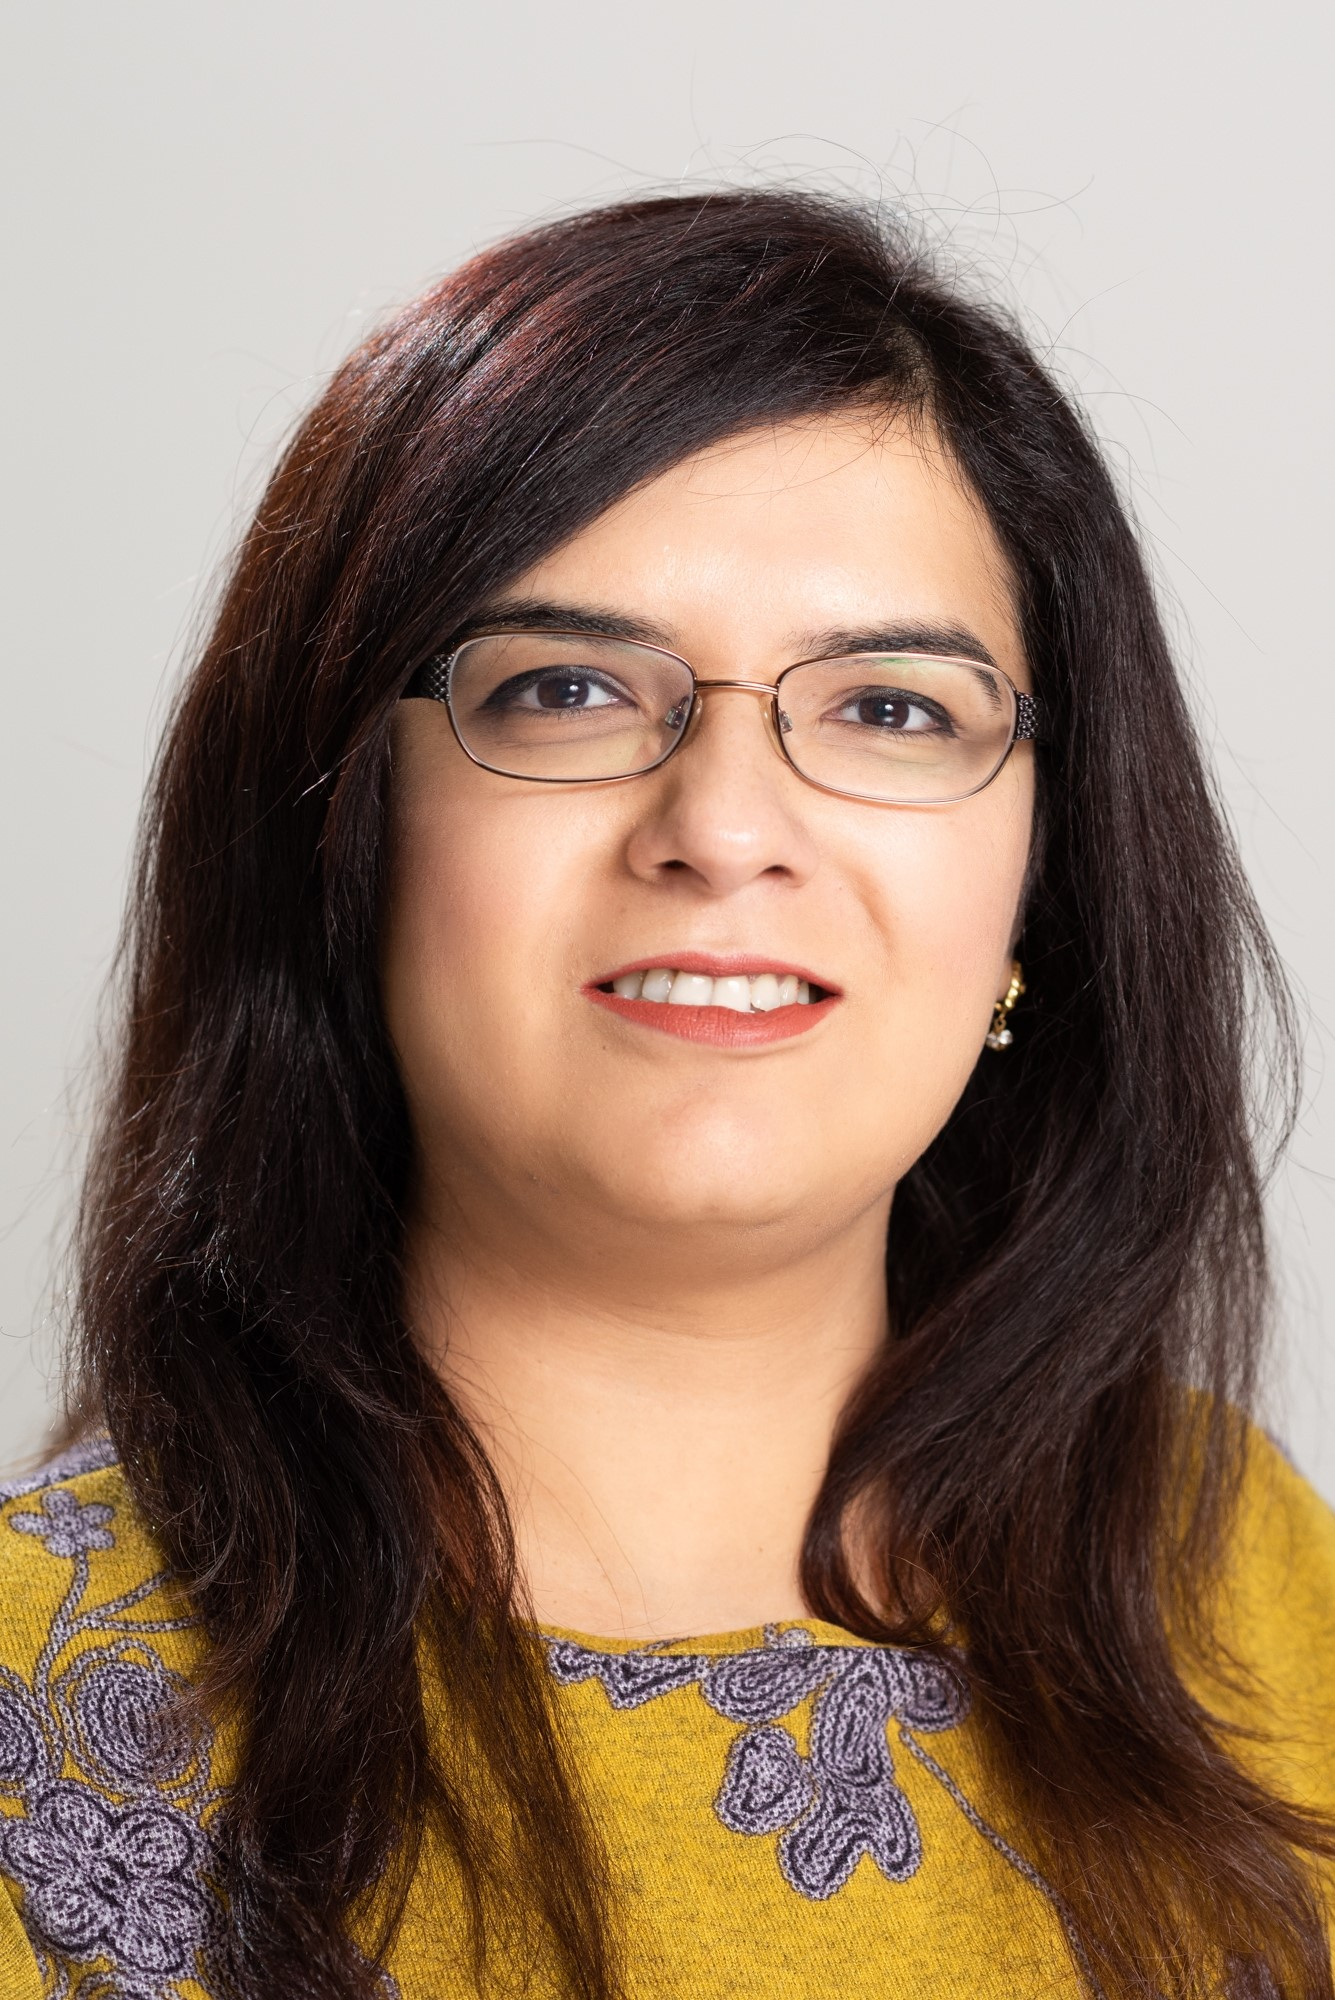
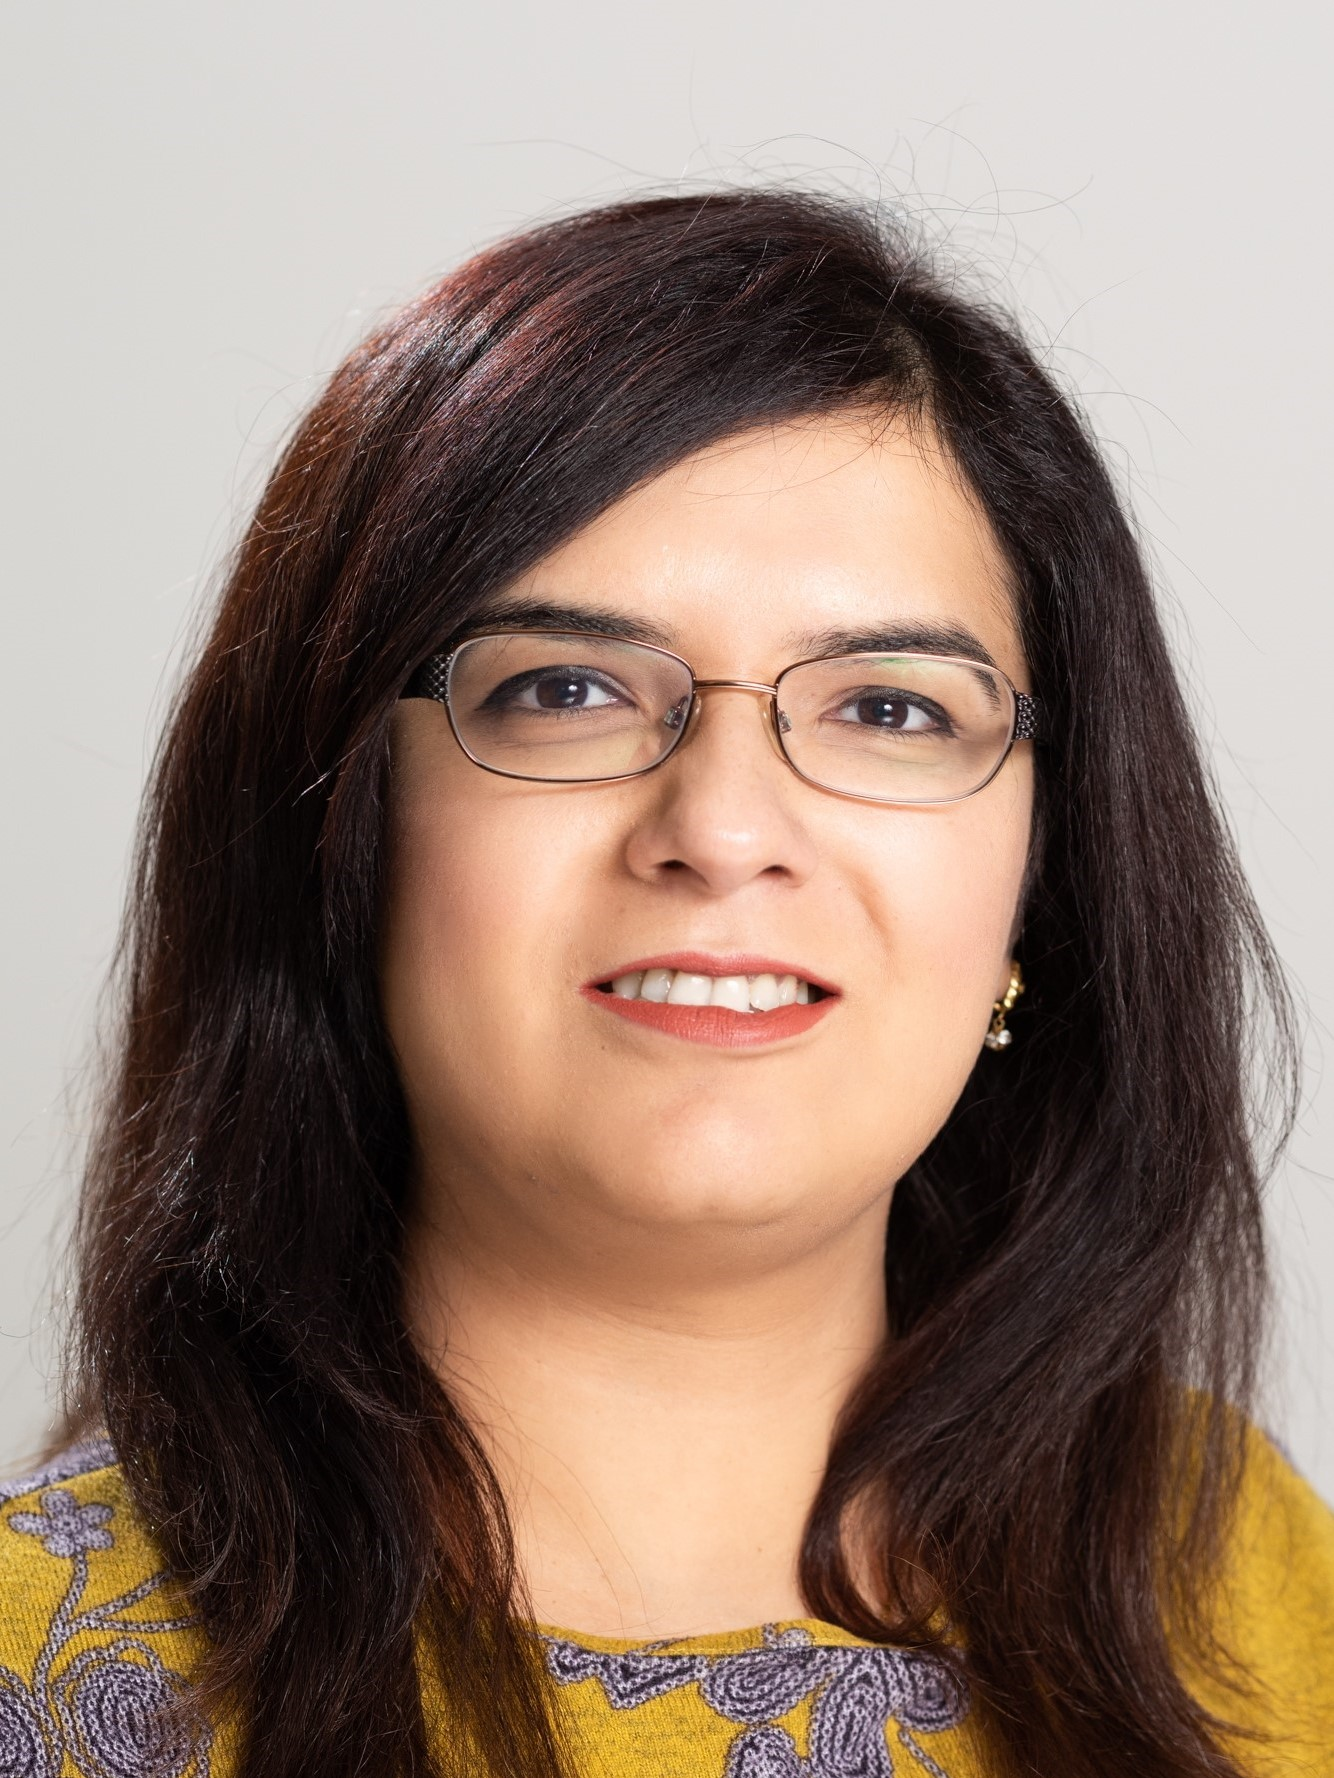
intro update

diff --git a/index.html b/index.html
@@ -36,32 +36,34 @@ img.bottom {
 <div id="container">
 <div class="container">
 <div id="toptitle">
-<h1>Sophia Bano</h1>
+<h1 style="font-size:30px" >Sophia Bano</h1>
 </div>
 
-<table class="imgtable" style="width:100%"><tbody><tr>
-<td style="width:25%">
-  <a href="https://sophiabano.github.io/"><img src="./images/Sophia_Bano.jpg" alt="" width="165px" height="250px"></a>
-</td>
-<td align="left" style="width:25%">
-  <p><a href="https://sophiabano.github.io/">Sophia Bano</a><br>
-  Research Associate at <a href="https://www.ucl.ac.uk/interventional-surgical-sciences/">UCL</a><br>
-  Email: <a href="mailto:sophia.bano-at-ucl.ac.uk">sophia.bano-at-ucl.ac.uk</a><br><br>
+<table class="imgtable"><tbody><tr>
+
+<td align="left" width="700">
+  <!-- <p><a href="https://sophiabano.github.io/">Sophia Bano</a><br> -->
+  <b style="font-size:22px" >Research Associate</b> <br>
+  <a href="https://www.ucl.ac.uk/interventional-surgical-sciences/">Wellcome/EPSRC Centre for Interventional and Surgical Sciences</a> <br>
+  Department of Computer Science<br>
+  <a href="https://www.ucl.ac.uk/interventional-surgical-sciences/">University College London</a><br>
+  <br>
+  Charles Bell House (WEISS)<br>
+  London, W1W 7TY, UK <br>
+  <br>
+  <b>Email:</b> <a href="mailto:sophia.bano-at-ucl.ac.uk">sophia.bano-at-ucl.ac.uk</a><br><br>
   <a href="https://scholar.google.co.uk/citations?user=q4HyEK0AAAAJ&hl=en" title="Scholar profile" target="_blank"><img src="./images/scholar.png" alt="Scholar profile" width="40" height="40"></a>
   <a href="https://www.linkedin.com/in/sophia-bano" title="LinkedIn profile" target="_blank"><img src="./images/linkedin.png" alt="LinkedIn profile" width="40" height="40"></a>
   <a href="https://twitter.com/sophiabano" title="Twitter profile" target="_blank"><img src="./images/twitter.png" alt="Twitter profile" width="40" height="40"></a>
   <a href="https://www.youtube.com/channel/UCFN-VIcy6txkoOEu2Df2nxQ" title="Youtube channel" target="_blank"><img src="./images/youtube.jpg" alt="Youtube channel" width="45" height="45"></a>
-  <br>
-  <br>
-  Charles Bell House (WEISS)<br>
-  University College London<br>
-  Department of Computer Science<br>
-  London, W1W 7TY <br>
-  United Kingdom <br>
 </td>
-<td  align="right" style="width:30%">
-  <a class="twitter-timeline" width="400" height="450" data-theme="light" href="https://twitter.com/SophiaBano?ref_src=twsrc%5Etfw">Tweets by SophiaBano</a> <script async src="https://platform.twitter.com/widgets.js" charset="utf-8"></script>
+<td>
+  <a href="https://sophiabano.github.io/"><img src="./images/Sophia_Bano.jpg" alt="" width="192" height="256px"></a>
 </td>
+<!-- <td  align="right" style="width:30%"> -->
+  <!-- <a class="twitter-timeline" data-width="400" data-height="450" data-theme="light" href="https://twitter.com/SophiaBano?ref_src=twsrc%5Etfw">Tweets by SophiaBano</a> <script async src="https://platform.twitter.com/widgets.js" charset="utf-8"></script> -->
+<!-- <a class="twitter-timeline" data-lang="en" data-width="500" data-height="600" data-dnt="true" data-theme="light" href="https://twitter.com/SophiaBano?ref_src=twsrc%5Etfw">Tweets by SophiaBano</a> <script async src="https://platform.twitter.com/widgets.js" charset="utf-8"></script> -->
+<!-- </td> -->
 
 </tr></tbody></table>
 
@@ -96,7 +98,7 @@ I received Bachelor in Mechatronics Engineering and Master in Electrical Enginee
 
 <ul>
   <li>
-		[08/2020] Invited talk on <b>Mosaicking using Deep Leaning for Fetoscopic Surgery</b> at WEISS mini-symposium on <a href="https://www.eventbrite.co.uk/e/artificial-intelligence-in-surgery-a-virtual-mini-symposium-registration-114310429572">Artificial Intelligence in Surgery</a>. 
+		[08/2020] Invited talk on <b>Mosaicking using Deep Leaning for Fetoscopic Surgery</b> at WEISS mini-symposium on <a href="https://www.eventbrite.co.uk/e/artificial-intelligence-in-surgery-a-virtual-mini-symposium-registration-114310429572">Artificial Intelligence in Surgery</a>.
 	</li>
 	<li>
 		[07/2020] In vivo <b>Fetocopic Videos Dataset</b> with vessel annotations has been released. <a href="https://www.ucl.ac.uk/interventional-surgical-sciences/fetoscopy-placenta-data">Click here</a> for details.
